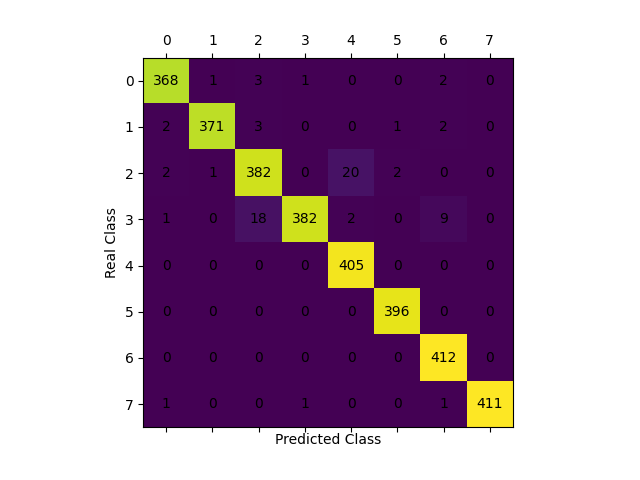
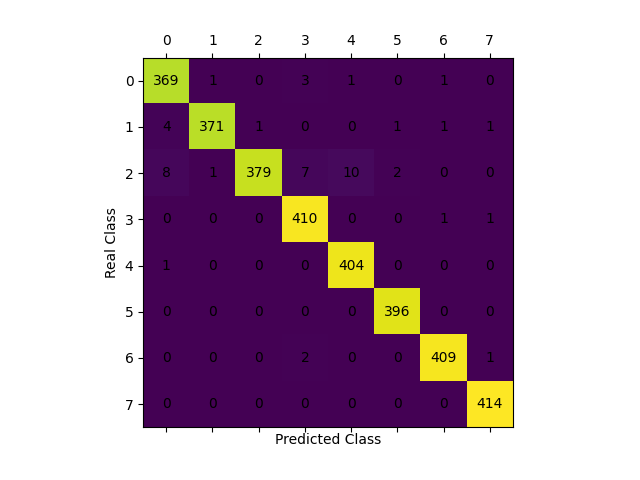
go
updated figures and displaying wrongs code

diff --git a/final_class.py b/final_class.py
@@ -1,3 +1,4 @@
+import numpy
 import torch
 import torchvision
 import torchvision.transforms as trans
@@ -17,6 +18,7 @@ from PIL import Image
 classes = {'palm': 0, 'l': 1, 'fist': 2, 'fist_moved': 3, 'thumb': 4, 'palm_moved': 5, 'c': 6,
            'down': 7}
 
+rev_classes = {value: key for (key, value) in classes.items()}
 
 class handsDataSet(Dataset):
     def __init__(self, transformer, data_frame):
@@ -221,10 +223,10 @@ if __name__ == "__main__":
     device = torch.device("cuda" if torch.cuda.is_available() else "cpu")
     classes = 8
     model = Net(num_classes=classes).to(device)
-    # model.load_state_dict(torch.load(percent_98))  # Loading the trained one already, use it if you would like to
+    model.load_state_dict(torch.load(percent_98))  # Loading the trained one already, use it if you would like to
     loss_criteria = nn.CrossEntropyLoss()
     optimizer = optim.Adam(model.parameters(), lr=1e-4)
-    epochs = 10
+    epochs = 1
     epoch_nums = []
     training_loss = []
     test_los = []
@@ -232,19 +234,29 @@ if __name__ == "__main__":
     wrongs = []
     print('Training on', device)
     for epoch in range(1, epochs + 1):
-        train_loss = train(model, device, train_loader, optimizer, epoch)
+        # train_loss = train(model, device, train_loader, optimizer, epoch)
         test_loss, conf_mat, wrong = test(model, device, test_loader, classes, epoch)
         epoch_nums.append(epoch)
         wrongs.extend(wrong)
-        training_loss.append(train_loss)
+        # training_loss.append(train_loss)
         test_los.append(test_loss)
         confusion_mats.append(conf_mat)
 
     torch.save(model.state_dict(), 'gesture_model.pt')
-    model.eval()
-    for mat in confusion_mats:
+    num_wrongs_to_disp = 5
+    for i in range(num_wrongs_to_disp):
+        pred_typ = rev_classes[int(wrongs[i][2])]
+        real_typ = rev_classes[int(wrongs[i][1])]
+        plt.axis('off')
+        img = wrongs[i][0].permute(1, 2, 0)
+        plt.imshow(img)
+        plt.title(f'Real: {real_typ}, Predicted: {pred_typ}')
+        plt.show()
+
+    for ind, mat in enumerate(confusion_mats):
         fig, ax = plt.subplots()
         ax.matshow(mat)
+        plt.title(f'Confusion Matrix for Epoch: {ind + 1}')
         plt.ylabel('Real Class')
         plt.xlabel('Predicted Class')
         for (i, j), z in np.ndenumerate(mat):
@@ -252,9 +264,10 @@ if __name__ == "__main__":
         plt.show()
 
     plt.figure(figsize=(15, 15))
-    plt.plot(epoch_nums, training_loss)
+    # plt.plot(epoch_nums, training_loss)
     plt.plot(epoch_nums, test_los)
-    plt.xlabel('epoch')
-    plt.ylabel('loss')
+    plt.xlabel('Epoch')
+    plt.ylabel('Loss')
     plt.legend(['training', 'test'], loc='upper right')
+    plt.title('Cross Entropy Loss function')
     plt.show()
